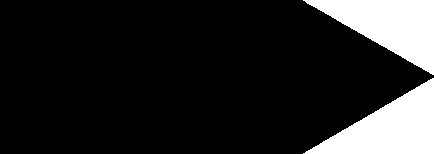
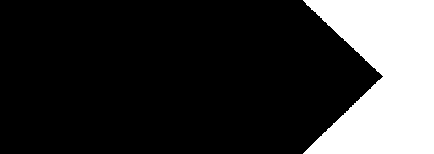
Fixed the background images or yellow and black arrows laying outside it's area.

Changed region(s): [[0.6889, 0.0519, 1.0, 0.987], [0.6889, 0.026, 0.7189, 0.0519]]

diff --git a/Main/Options.razor.css b/Main/Options.razor.css
@@ -2,20 +2,20 @@
     display: flex;
     flex-direction: column;
     height: 100%;
+    justify-content: space-between;
 }
 
     main > div {
-        height: 10%;
+        height: 9%;
         background-repeat: no-repeat;
-        background-size: 90mm 100%;
-        padding-left: 15px;
+        background-size: 105mm 100%;
         display: flex;
         align-items: center;
-        margin: 5px 0px 5px;
     }
 
 div > h4 {
     text-decoration: underline;
+    padding-left: 15px;
 }
 
 .Even {

diff --git a/Layout/MainLayout.razor.css b/Layout/MainLayout.razor.css
@@ -11,7 +11,8 @@ main {
 .CoreColor {
     border: solid;
     border-width: 2px;
-    background-color: white;
+    background-color: white;    
+    
 }
 
 #left {
